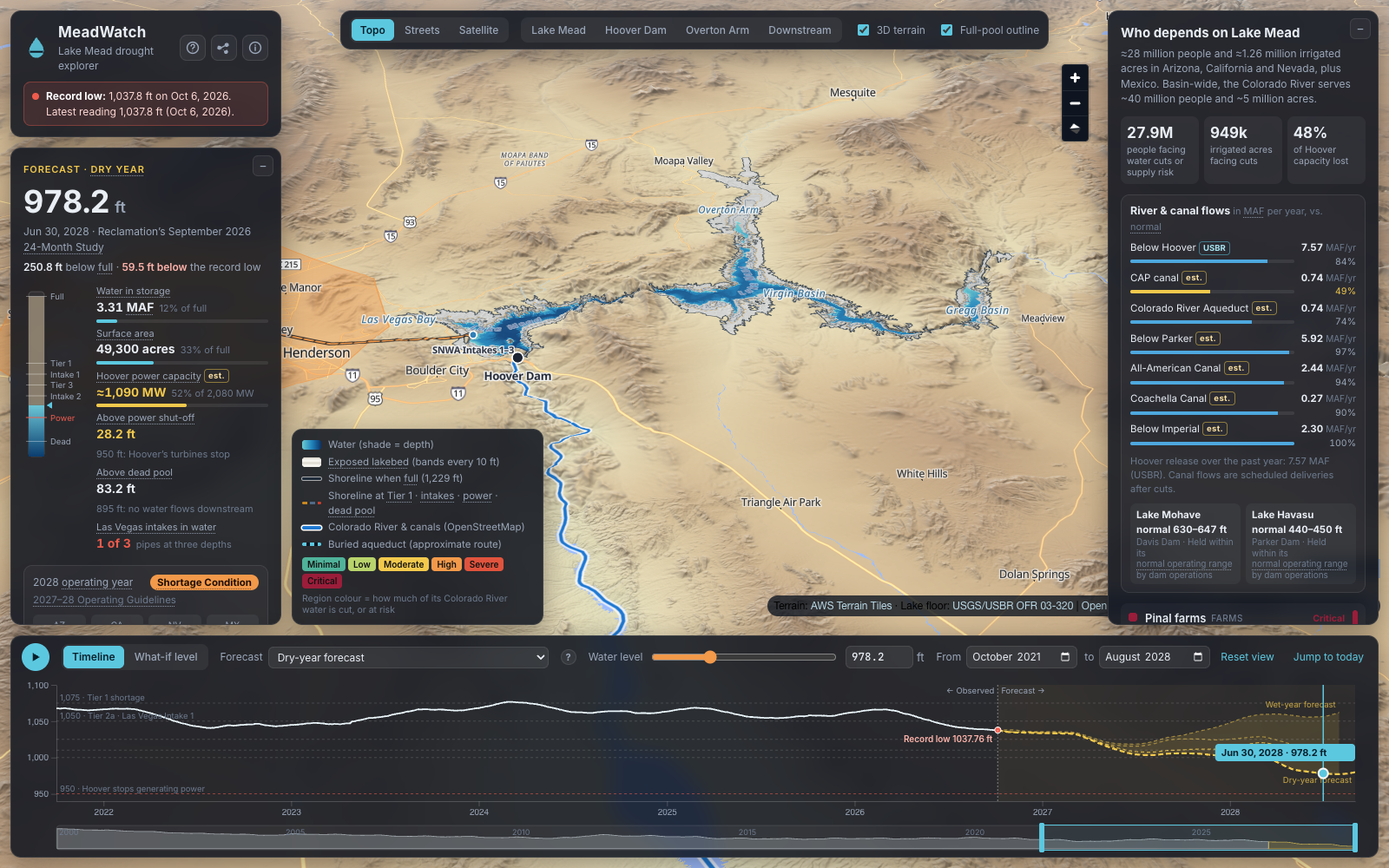
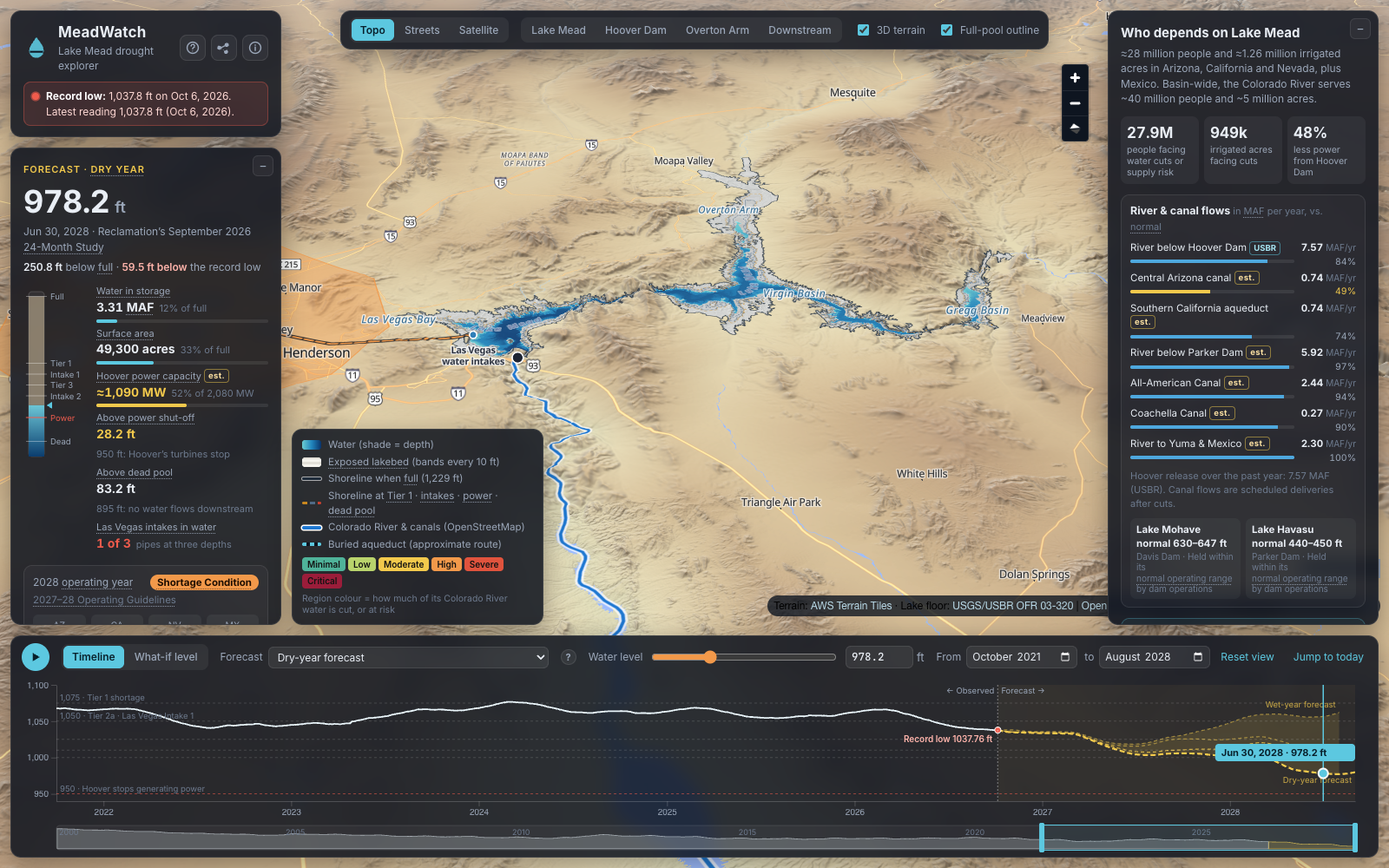
Clearer region labels and plain-language explanations of the numbers
- Region, map-point and flow names spelled out (Pinal County farms,
  Phoenix & Tucson, Las Vegas water intakes, River below Hoover Dam...).
- Region status lines are plain sentences ("Gets 300,000 acre-feet less
  river water a year: none of its usual Colorado River supply"; "Hoover
  Dam is making 37% less power..."); map labels use short forms.
- New "How to read these numbers" box; each region's detail card opens
  with "What this means"; estimate notes rewritten without shorthand.
- Glossary: water cut, Hoover power loss, impact level, groundwater,
  fallowing.
- Labels: Phoenix and Tucson each labelled on their own county (the
  single label sat on Pinal County); CAP flow label moved off Phoenix.
- Smoke test: 55 checks (adds label-inside-own-area check).

Changed region(s): [[0.8125, 0.279, 0.9688, 0.713], [0.2812, 0.372, 0.4062, 0.465], [0.9375, 0.155, 0.9688, 0.217]]

diff --git a/src/impacts.ts b/src/impacts.ts
@@ -151,81 +151,86 @@ export interface RegionInfo {
     hooverShare?: string;
     basis: string;
     blurb: string;
+    /** where the map flies when the region is selected */
     center: [number, number];
     zoom: number;
+    /** label positions, each inside the region's own shaded area (default: one label at center) */
+    labels?: {at: [number, number]; name: string}[];
 }
 
 export const REGIONS: RegionInfo[] = [
     {
-        id: 'lv', name: 'Las Vegas Valley', short: 'Las Vegas', kind: 'city', state: 'NV',
+        id: 'lv', name: 'Las Vegas Valley', short: 'Las Vegas Valley', kind: 'city', state: 'NV',
         population: 2_400_000, acres: 0, supplyAf: 300_000, dependence: '~90% of supply pumped straight from Lake Mead',
         hooverShare: 'Nevada holds ~23% of Hoover power',
-        basis: 'Nevada reduction ÷ Nevada’s 300,000 AF apportionment; intake depths from SNWA.',
+        basis: 'Nevada’s cut compared with its 300,000 acre-foot yearly share of the river. Intake depths come from the Southern Nevada Water Authority.',
         blurb: 'Southern Nevada Water Authority draws from three intakes in Boulder Basin. Intake 1 sits at 1,050 ft, Intake 2 at 1,000 ft. The “third straw” Intake 3 (860 ft) and its low-lake-level pumping station keep water flowing down to ~875 ft.',
         center: [-115.1, 36.15], zoom: 9.5
     },
     {
-        id: 'phx', name: 'Phoenix & Tucson (CAP cities and tribes)', short: 'Phoenix · Tucson', kind: 'city', state: 'AZ',
+        id: 'phx', name: 'Phoenix & Tucson (Central Arizona Project cities and tribes)', short: 'Phoenix & Tucson', kind: 'city', state: 'AZ',
         population: 5_900_000, acres: 0, supplyAf: 1_000_000, dependence: 'CAP is ~40% of Arizona’s water use; Tucson relies on it almost entirely',
         hooverShare: 'Arizona holds ~19% of Hoover power',
-        basis: 'Arizona reduction beyond the first 512,000 AF (absorbed by CAP agriculture and excess pools) ÷ ~1.0 MAF CAP municipal + tribal deliveries.',
+        basis: 'Arizona’s first 512,000 acre-feet of cuts fall on farms and other lower-priority users. Anything beyond that is compared with the roughly 1 million acre-feet the Central Arizona Project normally delivers to cities and tribes.',
         blurb: 'The 336-mile Central Arizona Project lifts water ~2,900 ft from Lake Havasu to Phoenix and Tucson. CAP holds junior priority, so Arizona’s cuts land on it first.',
-        center: [-111.8, 33.0], zoom: 7.4
+        center: [-111.8, 33.0], zoom: 7.4,
+        // Maricopa and Pima counties wrap around Pinal County, so label each city on its own county
+        labels: [{at: [-112.1, 33.5], name: 'Phoenix'}, {at: [-110.95, 32.2], name: 'Tucson'}]
     },
     {
-        id: 'pinal', name: 'Central Arizona farms (Pinal County)', short: 'Pinal farms', kind: 'farm', state: 'AZ',
+        id: 'pinal', name: 'Pinal County farms, central Arizona', short: 'Pinal County farms', kind: 'farm', state: 'AZ',
         population: 0, acres: 300_000, supplyAf: 300_000, dependence: 'CAP water was the main surface supply; now largely groundwater',
-        basis: 'CAP agricultural pool is the first to be eliminated: Arizona reduction ÷ 512,000 AF (Tier 1 eliminates it).',
+        basis: 'Water set aside for central Arizona farms is the first to be cut: Arizona’s first 512,000 acre-feet of cuts come from it, so a Tier 1 shortage or worse removes it entirely.',
         blurb: 'Cotton, alfalfa and dairy feed farms that lost most of their CAP water when Tier 1 began in 2022, and are fallowing fields or pumping groundwater.',
         center: [-111.75, 32.87], zoom: 8.6
     },
     {
-        id: 'socal', name: 'Southern California (Metropolitan Water District)', short: 'Southern California', kind: 'city', state: 'CA',
+        id: 'socal', name: 'Southern California cities (Metropolitan Water District)', short: 'Southern California', kind: 'city', state: 'CA',
         population: 19_000_000, acres: 0, supplyAf: 950_000, dependence: 'Colorado River Aqueduct supplies ~25–30% of the region',
         hooverShare: 'MWD, LADWP, SCE and cities hold ~57% of Hoover power; MWD uses it to pump the aqueduct',
-        basis: 'Illustrative: 60% of California’s reduction ÷ ~950,000 AF Colorado River Aqueduct deliveries.',
+        basis: 'An illustrative split: 60% of California’s cut, compared with the roughly 950,000 acre-feet the Colorado River Aqueduct normally carries.',
         blurb: 'Metropolitan pumps Lake Havasu water 242 miles over the desert to 26 member agencies from Ventura to San Diego.',
         center: [-117.6, 33.95], zoom: 7.3
     },
     {
-        id: 'iid', name: 'Imperial Valley (IID)', short: 'Imperial Valley', kind: 'farm', state: 'CA',
+        id: 'iid', name: 'Imperial Valley farms (Imperial Irrigation District)', short: 'Imperial Valley farms', kind: 'farm', state: 'CA',
         population: 180_000, acres: 475_000, supplyAf: 2_500_000, dependence: 'Colorado River is the only source of water',
-        basis: 'Illustrative: 30% of California’s reduction ÷ ~2.5 MAF IID use. IID holds senior (1901) rights.',
+        basis: 'An illustrative split: 30% of California’s cut, compared with the district’s usual 2.5 million acre-feet. Its rights date to 1901, among the oldest on the river.',
         blurb: 'The largest single user of Colorado River water. The All-American Canal carries ~2.5 MAF a year to winter vegetables, alfalfa and cattle feed.',
         center: [-115.55, 32.95], zoom: 8.7
     },
     {
-        id: 'cvwd', name: 'Coachella Valley', short: 'Coachella', kind: 'mixed', state: 'CA',
+        id: 'cvwd', name: 'Coachella Valley (Palm Springs area)', short: 'Coachella Valley', kind: 'mixed', state: 'CA',
         population: 450_000, acres: 70_000, supplyAf: 350_000, dependence: 'Coachella Canal supplies most farm water and recharges the aquifer',
-        basis: 'Illustrative: 7% of California’s reduction ÷ ~350,000 AF CVWD use.',
+        basis: 'An illustrative split: 7% of California’s cut, compared with the valley’s usual 350,000 acre-feet.',
         blurb: 'Dates, citrus, grapes and table vegetables, plus Palm Springs-area cities that recharge their aquifer with Colorado River water.',
         center: [-116.2, 33.65], zoom: 8.8
     },
     {
-        id: 'pvid', name: 'Palo Verde Valley', short: 'Palo Verde', kind: 'farm', state: 'CA',
+        id: 'pvid', name: 'Palo Verde Valley farms (Blythe)', short: 'Palo Verde Valley farms', kind: 'farm', state: 'CA',
         population: 20_000, acres: 104_000, supplyAf: 400_000, dependence: 'Colorado River is the only source',
-        basis: 'Illustrative: 3% of California’s reduction ÷ ~400,000 AF. Holds 1877 senior rights; mostly paid fallowing.',
+        basis: 'An illustrative split: 3% of California’s cut, compared with its usual 400,000 acre-feet. Its rights date to 1877; most of its savings come from farmers paid to leave fields unplanted.',
         blurb: 'Alfalfa and hay around Blythe, irrigated by gravity from the river under some of the oldest rights on the Colorado.',
         center: [-114.62, 33.58], zoom: 9.5
     },
     {
-        id: 'crit', name: 'Colorado River Indian Tribes', short: 'CRIT', kind: 'farm', state: 'AZ',
+        id: 'crit', name: 'Colorado River Indian Tribes (Parker Valley)', short: 'Colorado River Indian Tribes', kind: 'farm', state: 'AZ',
         population: 9_000, acres: 79_000, supplyAf: 660_000, dependence: 'Decreed (1865-priority) Colorado River rights',
-        basis: 'Senior present-perfected rights: no scheduled reductions; exposed only when releases are physically limited.',
+        basis: 'Its rights are older than the rules that share out shortages, so it isn’t cut under them. It is affected only if Hoover Dam physically can’t release enough water.',
         blurb: 'The Mohave, Chemehuevi, Hopi and Navajo people of the Parker Valley farm ~79,000 acres under some of the most senior rights on the river.',
         center: [-114.35, 34.0], zoom: 9.6
     },
     {
-        id: 'yuma', name: 'Yuma & Gila valleys', short: 'Yuma', kind: 'mixed', state: 'AZ',
+        id: 'yuma', name: 'Yuma & Gila valleys', short: 'Yuma area', kind: 'mixed', state: 'AZ',
         population: 210_000, acres: 230_000, supplyAf: 1_000_000, dependence: 'Colorado River is the only source',
-        basis: 'Arizona’s senior mainstem priorities (pre-1968): no scheduled reductions; exposed only when releases are physically limited.',
+        basis: 'Its rights are older than the Central Arizona Project’s (from before 1968), so it isn’t cut under the shortage rules. It is affected only if Hoover Dam physically can’t release enough water.',
         blurb: 'Grows most of America’s winter lettuce and leafy greens. Senior rights shield Yuma from shortage tiers, but every drop must still pass Hoover Dam.',
         center: [-114.4, 32.72], zoom: 9
     },
     {
-        id: 'mexico', name: 'Mexicali Valley & Tijuana (Mexico)', short: 'Mexico', kind: 'intl', state: 'MX',
+        id: 'mexico', name: 'Mexicali Valley & Tijuana (Mexico)', short: 'Mexico (Mexicali & Tijuana)', kind: 'intl', state: 'MX',
         population: 3_000_000, acres: 500_000, supplyAf: 1_500_000, dependence: '1.5 MAF a year under the 1944 Treaty',
-        basis: 'Minute 323 reductions under 2007 rules; Minute 334 (Sept 2026) terms are not modeled here.',
+        basis: 'Cuts follow the U.S.–Mexico agreement Minute 323 in years under the 2007 rules. The terms of the September 2026 agreement, Minute 334, aren’t modelled.',
         blurb: 'Mexico receives water at Morelos Dam below Yuma. Reductions are negotiated through the International Boundary and Water Commission.',
         center: [-115.2, 32.35], zoom: 8.5
     }
@@ -286,26 +291,59 @@ export function regionImpacts(h: number, s: Shortage): RegionImpact[] {
         if (cutFrac === null && physSev > 0) severity = physSev;
 
         const pct = cutFrac ? Math.round(cutFrac * 100) : 0;
+        const plPct = pl !== null ? Math.round(pl * 100) : 0;
         const parts: string[] = [];
         let short: string;
         if (severity === null) {
-            parts.push('Reductions set by IBWC Minute 334 (not modeled)');
-            short = 'Minute 334';
+            parts.push('Mexico’s 2027–28 share of the cuts is set by a U.S.–Mexico agreement (Minute 334) that isn’t modelled here');
+            short = 'Cut not modelled';
         } else if (physSev >= 1) {
             parts.push(physical!);
-            short = 'No supply';
+            short = 'No water arrives';
         } else {
-            if (cut && cutFrac! > 0.005) parts.push(`−${fmtAf(cut)} AF/yr (${pct}% of its river water)`);
+            if (cut && cutFrac! > 0.005) {
+                parts.push(cutFrac! >= 0.995
+                    ? `Gets ${fmtAfLong(cut)} acre-feet less river water a year: none of its usual Colorado River supply`
+                    : `Gets ${fmtAfLong(cut)} acre-feet less river water a year (${pct}% of its usual Colorado River supply)`);
+            }
             if (physical) parts.push(physical);
-            if (!parts.length) parts.push(r.id === 'crit' || r.id === 'yuma' ? 'Senior rights: no scheduled cuts' : 'No scheduled water cut');
-            if (pl !== null && pl > 0.02) parts.push(`Hoover power −${Math.round(pl * 100)}%`);
-            short = cut && cutFrac! > 0.005 ? `−${pct}% river water`
+            if (!parts.length) parts.push(r.id === 'crit' || r.id === 'yuma' ? 'Protected by senior water rights: no cut scheduled' : 'No water cut scheduled at this level');
+            if (pl !== null && pl > 0.02) parts.push(`Hoover Dam is making ${plPct}% less power, so less low-cost electricity reaches its utilities`);
+            short = cut && cutFrac! > 0.005 ? (cutFrac! >= 0.995 ? 'All river water cut' : `${pct}% less river water`)
                 : physSev > 0 ? 'Supply at risk'
-                    : pl !== null && pl > 0.05 ? `Hoover power −${Math.round(pl * 100)}%` : 'No cut';
+                    : pl !== null && pl > 0.05 ? `${plPct}% less Hoover power` : 'No water cut';
         }
         const waterAffected = (cutFrac ?? 0) >= 0.02 || physSev > 0;
         return {id: r.id, severity, cutAf: cut, cutFrac, powerLossFrac: pl, physical, physSev, waterAffected, status: parts.join(' · '), short};
     });
+}
+
+/** 21000 -> "21,000"; 1250000 -> "1.25 million" */
+export function fmtAfLong(v: number) {
+    if (v >= 1e6) return `${(v / 1e6).toFixed(2).replace(/\.?0+$/, '')} million`;
+    const r = v >= 1e5 ? Math.round(v / 1e4) * 1e4 : v >= 1e4 ? Math.round(v / 1e3) * 1e3 : Math.round(v / 100) * 100;
+    return r.toLocaleString('en-US');
+}
+
+/** One plain sentence on what this region's numbers mean in practice. */
+export function impactMeaning(r: RegionInfo, imp: RegionImpact): string {
+    const cut = imp.cutFrac ?? 0;
+    const homes = imp.cutAf ? Math.round(imp.cutAf * 2 / 1000) * 1000 : 0;
+    const homesTxt = homes >= 1000 ? ` That much water would supply roughly ${homes.toLocaleString('en-US')} homes for a year.` : '';
+    if (imp.severity === null) return 'Mexico takes reductions under its own treaty agreements with the United States.';
+    if (imp.physSev >= 1) return r.id === 'lv'
+        ? 'The lake has dropped below Las Vegas’s deepest pumps, so the valley would have to rely on limited groundwater and stored supplies.'
+        : 'No water can leave Lake Mead, so canals and the river downstream would run dry except for local inflows and groundwater.';
+    if (cut >= 0.995) return `None of its usual Colorado River water arrives. ${r.kind === 'farm' ? 'Farmers pump groundwater where they can or leave fields unplanted.' : 'It must rely on groundwater, recycled and stored water.'}${homesTxt}`;
+    if (cut > 0.005) {
+        const how = r.kind === 'farm' ? 'Farms make up the gap by leaving some fields unplanted (often paid to) or pumping groundwater.'
+            : r.kind === 'city' ? 'Cities make up the gap with conservation, groundwater and water banked in earlier years.'
+                : 'The gap is met by leaving some fields unplanted, conservation and groundwater.';
+        return `It receives ${Math.round(cut * 100)}% less Colorado River water than usual. ${how}${homesTxt}`;
+    }
+    if (imp.physSev > 0) return 'No cut is scheduled, but Hoover Dam may not physically be able to release all of the water ordered.';
+    if ((imp.powerLossFrac ?? 0) > 0.05) return `Water deliveries are unaffected, but Hoover Dam’s smaller power output means its utilities buy more replacement electricity, usually at higher cost.`;
+    return r.id === 'crit' || r.id === 'yuma' ? 'Older (senior) water rights are served first, so this area keeps its full supply until the lake falls much further.' : 'Its Colorado River supply is not cut at this level.';
 }
 
 export function fmtAf(v: number) {
@@ -389,13 +427,13 @@ export function downstreamFlows(h: number, s: Shortage, observedHooverMaf: numbe
         return {id, name, short, maf: v, normal, ratio: normal ? v / normal : 0, dry: dead || v < 0.01, note, observed: obs};
     };
     return [
-        mk('r1', 'Colorado River below Hoover Dam', 'Below Hoover', r1, n1, observed),
-        mk('cap', 'Central Arizona Project canal', 'CAP canal', cap, NORMAL_FLOW.cap),
-        mk('cra', 'Colorado River Aqueduct', 'Colorado River Aqueduct', cra, NORMAL_FLOW.cra),
-        mk('r2', 'Colorado River below Parker Dam', 'Below Parker', r2, n2),
+        mk('r1', 'Colorado River below Hoover Dam', 'River below Hoover Dam', r1, n1, observed),
+        mk('cap', 'Central Arizona Project canal', 'Central Arizona canal', cap, NORMAL_FLOW.cap),
+        mk('cra', 'Colorado River Aqueduct', 'Southern California aqueduct', cra, NORMAL_FLOW.cra),
+        mk('r2', 'Colorado River below Parker Dam', 'River below Parker Dam', r2, n2),
         mk('aac', 'All-American Canal', 'All-American Canal', aac, NORMAL_FLOW.aac),
         mk('coachella', 'Coachella Canal', 'Coachella Canal', coachella, NORMAL_FLOW.coachella),
-        mk('r3', 'Colorado River below Imperial Dam (to Yuma & Mexico)', 'Below Imperial', r3, n3)
+        mk('r3', 'Colorado River below Imperial Dam (to Yuma & Mexico)', 'River to Yuma & Mexico', r3, n3)
     ];
 }
 

diff --git a/src/main.ts b/src/main.ts
@@ -7,7 +7,7 @@ import {
 import {
     DECLARED_TIERS, type DownstreamLake, type Flow, HOOVER_NAMEPLATE, REGIONS, type Regime, type RegionImpact, SEVERITY_STOPS,
     type Shortage, US_REGIONS, downstreamFlows, downstreamLakes, fmtAf, hooverCapacityMw, regimeLabel, regionImpacts,
-    severityColor, severityLabel, shortageFor
+    severityColor, severityLabel, shortageFor, impactMeaning
 } from './impacts';
 import {loadRaster, registerTerrainProtocol} from './terrain';
 import {type Basemap, type MapHandles, type ViewId, createMap} from './map';
@@ -453,9 +453,21 @@ function renderImpacts(app: AppData, s: State, d: Derived, select: (id: string |
         <div class="kpis">
             <div><b>${(popHit / 1e6).toFixed(1)}M</b><span>people facing water cuts or supply risk</span></div>
             <div><b>${acHit >= 1e6 ? (acHit / 1e6).toFixed(2) + 'M' : nf.format(Math.round(acHit / 1000)) + 'k'}</b><span>irrigated acres facing cuts</span></div>
-            <div><b>${Math.round(powerLoss * 100)}%</b><span>of Hoover capacity lost</span></div>
+            <div><b>${Math.round(powerLoss * 100)}%</b><span>less power from Hoover Dam</span></div>
         </div>
         ${flowSection(d)}
+        <details class="howto" ${howtoOpen ? 'open' : ''}>
+            <summary>How to read these numbers</summary>
+            <ul>
+                <li><b>“Gets 21,000 acre-feet less river water a year”</b> is the region’s ${term('water-cut', 'water cut')}: how much less Colorado River water it receives this year under the rules.
+                    An ${term('acre-foot', 'acre-foot')} is roughly a year’s water for two homes. The percentage is the share of its usual river supply; “none of its usual supply” means it gets no Colorado River water at all.</li>
+                <li><b>“Hoover Dam is making 37% less power”</b> is a ${term('hoover-power-loss', 'power loss')}, not a water cut. A lower lake pushes Hoover’s turbines with less force, so the dam makes less electricity.
+                    Utilities in that region that buy Hoover power get less of it and buy replacement power, usually at higher cost.</li>
+                <li><b>The colour and level</b> (Minimal to Critical) follow the region’s ${term('impact-level', 'biggest problem')}: its water cut, its loss of Hoover power, or the risk that the dam can’t deliver water at all.</li>
+                <li>${term('est', 'est.').replace('class="term"', 'class="term est"')} marks MeadWatch’s own estimates, such as how a state’s cut is split among its cities and farms. ${term('senior-rights', 'Senior water rights')} explain why some regions are cut later. <button class="btn-link" data-about>Methods</button></li>
+            </ul>
+        </details>
+        <p class="list-hint">Click a region for what its numbers mean in practice.</p>
         <ul class="regions">
             ${sorted.map(r => {
                 const imp = byId.get(r.id)!;
@@ -472,13 +484,14 @@ function renderImpacts(app: AppData, s: State, d: Derived, select: (id: string |
                 </button></li>`;
             }).join('')}
         </ul>
-        <p class="est-note">${term('est', 'est.').replace('class="term"', 'class="term est"')} = MeadWatch’s split of a state’s cut, not an official allocation. ${term('senior-rights', 'Senior rights')} explain why some regions are cut later. <button class="btn-link" data-about>Methods</button></p>
         ${sel && selImp ? `<div class="rg-detail" style="--c:${severityColor(selImp.severity)}">
             <div class="rg-detail-head"><b>${sel.name}</b><button class="btn-link" data-close>Close</button></div>
+            <p class="rg-meaning"><b>What this means:</b> ${linkTerms(impactMeaning(sel, selImp))}</p>
             <p>${linkTerms(sel.blurb)}</p>
             <dl>
+                <dt>Right now</dt><dd>${linkTerms(selImp.status)}</dd>
                 <dt>Dependence</dt><dd>${linkTerms(sel.dependence)}</dd>
-                ${sel.hooverShare ? `<dt>Hydropower</dt><dd>${sel.hooverShare}. At this level Hoover has lost ~${Math.round((selImp.powerLossFrac ?? 0) * 100)}% of its capacity.</dd>` : ''}
+                ${sel.hooverShare ? `<dt>Hydropower</dt><dd>${sel.hooverShare}. At this level Hoover Dam can make about ${Math.round((selImp.powerLossFrac ?? 0) * 100)}% less power than when the lake is full, so those utilities get less low-cost electricity.</dd>` : ''}
                 ${selImp.physical ? `<dt>Infrastructure</dt><dd>${selImp.physical}</dd>` : ''}
                 <dt>How this is estimated</dt><dd>${sel.basis}</dd>
             </dl>
@@ -487,6 +500,7 @@ function renderImpacts(app: AppData, s: State, d: Derived, select: (id: string |
     $('#impacts-body').querySelectorAll<HTMLButtonElement>('.rg').forEach(b => b.addEventListener('click', () => select(b.dataset.id!)));
     $('#impacts-body').querySelector('[data-close]')?.addEventListener('click', () => select(null));
     $('#impacts-body').querySelector('[data-about]')?.addEventListener('click', () => ($('#about-dialog') as HTMLDialogElement).showModal());
+    $('#impacts-body').querySelector('.howto')?.addEventListener('toggle', e => { howtoOpen = (e.target as HTMLDetailsElement).open; });
     void app;
 }
 
@@ -521,12 +535,17 @@ function linkTerms(text: string) {
         [/\bCentral Arizona Project\b|\bCAP\b/, 'cap'], [/\bMetropolitan\b/, 'mwd'], [/\bAll-American Canal\b/, 'iid'],
         [/\bCoachella Canal\b/, 'cvwd'], [/senior (?:\(\d{4}\) )?rights|senior present-perfected rights|most senior rights|oldest rights/, 'senior-rights'],
         [/\bjunior priority\b/, 'senior-rights'], [/\bTier 1\b/, 'shortage-tier'], [/\bMAF\b|\bmaf\b/, 'maf'],
-        [/\bthird straw\b/, 'snwa-intakes'], [/\bSouthern Nevada Water Authority\b/, 'snwa-intakes'], [/\b1944 Treaty\b/, 'apportionment']
+        [/\bthird straw\b/, 'snwa-intakes'], [/\bSouthern Nevada Water Authority\b/, 'snwa-intakes'], [/\b1944 Treaty\b/, 'apportionment'],
+        [/\bacre-feet\b/, 'acre-foot'], [/Hoover Dam is making \d+% less power/, 'hoover-power-loss'], [/\bMinute 3(?:23|34)\b/, 'minute'],
+        [/\bgroundwater\b/, 'groundwater'], [/\bunplanted\b/, 'fallowing']
     ];
     let out = text;
     for (const [re, id] of map) out = out.replace(re, m => term(id, m));
     return out;
 }
+
+/** "How to read these numbers" stays open or closed across panel redraws. */
+let howtoOpen = true;
 
 function fmtPeople(n: number) {
     return n >= 1e6 ? `${(n / 1e6).toFixed(1)}M` : `${Math.round(n / 1000)}k`;

diff --git a/src/map.ts b/src/map.ts
@@ -27,7 +27,7 @@ function widthByFlow(extra: number, z5: number, z9: number, z13: number): maplib
 
 /** Where each reach's or canal's flow label sits. */
 const FLOW_ANCHORS: Record<string, [number, number]> = {
-    r1: [-114.57, 34.95], cap: [-113.05, 33.72], cra: [-115.78, 33.78], r2: [-114.55, 33.82],
+    r1: [-114.57, 34.95], cap: [-113.8, 33.97], cra: [-115.78, 33.78], r2: [-114.55, 33.82],
     aac: [-115.05, 32.66], coachella: [-115.62, 33.40], r3: [-114.75, 32.56]
 };
 
@@ -370,13 +370,13 @@ export async function createMap(container: HTMLElement, app: AppData, w: Raster,
                         const imp = byId.get(region);
                         map.setFeatureState({source, id: aq}, {color: imp ? severityColor(imp.severity) : '#5cc8e0'});
                     }
-                    const features = REGIONS.map(r => {
+                    const features = REGIONS.flatMap(r => {
                         const imp = byId.get(r.id)!;
-                        return {
+                        return (r.labels ?? [{at: r.center, name: r.short}]).map(l => ({
                             type: 'Feature' as const,
-                            properties: {name: r.short, status: imp.short},
-                            geometry: {type: 'Point' as const, coordinates: r.center}
-                        };
+                            properties: {name: l.name, status: imp.short, rid: r.id},
+                            geometry: {type: 'Point' as const, coordinates: l.at}
+                        }));
                     });
                     (map.getSource('labels') as maplibregl.GeoJSONSource).setData({type: 'FeatureCollection', features});
                 },
@@ -386,8 +386,8 @@ export async function createMap(container: HTMLElement, app: AppData, w: Raster,
                         const scale = f.dry ? 0.55 : 0.35 + 0.65 * Math.sqrt(Math.min(1.2, f.ratio));
                         map.setFeatureState({source: 'waterways', id: f.id}, {scale, dry: f.dry});
                     }
-                    const fmt = (f: Flow) => f.dry ? 'dry: no release from Hoover'
-                        : `${f.maf.toFixed(2)} MAF/yr${Math.abs(f.ratio - 1) >= 0.01 ? ` (${f.ratio < 1 ? '−' : '+'}${Math.round(Math.abs(1 - f.ratio) * 100)}%)` : ''}`;
+                    const fmt = (f: Flow) => f.dry ? 'dry: no water released'
+                        : `${f.maf.toFixed(2)} MAF a year${Math.abs(f.ratio - 1) >= 0.01 ? `, ${Math.round(Math.abs(1 - f.ratio) * 100)}% ${f.ratio < 1 ? 'below' : 'above'} normal` : ', normal'}`;
                     (map.getSource('flowlabels') as maplibregl.GeoJSONSource).setData({
                         type: 'FeatureCollection',
                         features: flows.map(f => ({

diff --git a/src/glossary.ts b/src/glossary.ts
@@ -51,6 +51,11 @@ export const GLOSSARY: Term[] = [
     {id: 'pvid', term: 'PVID (Palo Verde Irrigation District)', def: 'Irrigates about 104,000 acres around Blythe, California, under some of the river’s oldest rights.'},
     {id: 'crit', term: 'CRIT (Colorado River Indian Tribes)', def: 'The Mohave, Chemehuevi, Hopi and Navajo people of the Parker Valley, who farm about 79,000 acres under rights dating to 1865.'},
     {id: 'minute', term: 'IBWC Minutes 323 and 334', aka: 'Minute 323, Minute 334, Mexico', def: 'Agreements between the U.S. and Mexico through the International Boundary and Water Commission on how Mexico shares shortages. MeadWatch models Minute 323; Minute 334 (2026) is not modelled.'},
+    {id: 'water-cut', term: 'Water cut', aka: 'less river water, AF/yr, reduction, shortage cut', def: 'How much less Colorado River water a region receives in a year than it normally would, in acre-feet. MeadWatch also shows it as a share of the region’s usual river supply: 100% means none of that water arrives.'},
+    {id: 'hoover-power-loss', term: 'Hoover power loss', aka: 'less Hoover power, power −%', def: 'How far below its full 2,080 MW Hoover Dam’s generating capacity has fallen because the lake is low. It affects electricity, not water: utilities in Arizona, California and Nevada that buy Hoover power get less and replace it, usually at higher cost.'},
+    {id: 'impact-level', term: 'Impact level (Minimal to Critical)', aka: 'severity, colour, minimal, low, moderate, high, severe, critical', def: 'MeadWatch’s summary of how hard a region is hit, set by its biggest problem: the share of its river water that is cut, half of Hoover Dam’s lost power for regions that buy it, or the risk that the dam can’t physically deliver water. Minimal is under 5%, Critical is 80% or more.'},
+    {id: 'groundwater', term: 'Groundwater', def: 'Water pumped from underground aquifers. It is the main backup when river water is cut, but pumping lowers the water table and is limited or regulated in many areas.'},
+    {id: 'fallowing', term: 'Fallowing', aka: 'unplanted fields, leaving fields unplanted', def: 'Leaving farmland unplanted for a season or more to save water. Many Colorado River farmers are paid to fallow so the water can stay in Lake Mead.'},
     {id: 'system-conservation', term: 'Voluntary conservation', aka: 'system conservation', def: 'Water that users agree, usually for payment, to leave in Lake Mead. It is why actual releases since 2023 have been lower than the formal cuts alone would require.'}
 ];
 

diff --git a/src/style.css b/src/style.css
@@ -373,6 +373,15 @@ body.embed .maplibregl-ctrl-top-right { top: var(--gap); right: var(--gap); }
 .lake span { font-variant-numeric: tabular-nums; font-weight: 650; }
 .lake small { color: var(--faint); font-size: 10px; line-height: 1.25; }
 .lake.bad small { color: #ffb4ab; }
+.howto { margin: 0 0 8px; border: 1px solid rgba(92, 200, 224, 0.3); border-radius: 10px; background: rgba(92, 200, 224, 0.06); }
+.howto summary { cursor: pointer; padding: 7px 10px; font-weight: 600; font-size: 12.5px; color: #cfe9f2; list-style: none; }
+.howto summary::-webkit-details-marker { display: none; }
+.howto summary::before { content: '▸ '; color: var(--accent); }
+.howto[open] summary::before { content: '▾ '; }
+.howto ul { margin: 0; padding: 0 10px 9px 26px; display: grid; gap: 6px; font-size: 12px; color: #c9d3df; line-height: 1.45; }
+.howto b { color: var(--text); font-weight: 600; }
+.list-hint { margin: 0 0 6px; font-size: 11px; color: var(--faint); }
+.rg-meaning { color: var(--text) !important; background: rgba(255, 255, 255, 0.04); border-radius: 6px; padding: 6px 8px; }
 .regions { list-style: none; margin: 0; padding: 0; display: grid; gap: 5px; }
 .rg {
     width: 100%;
